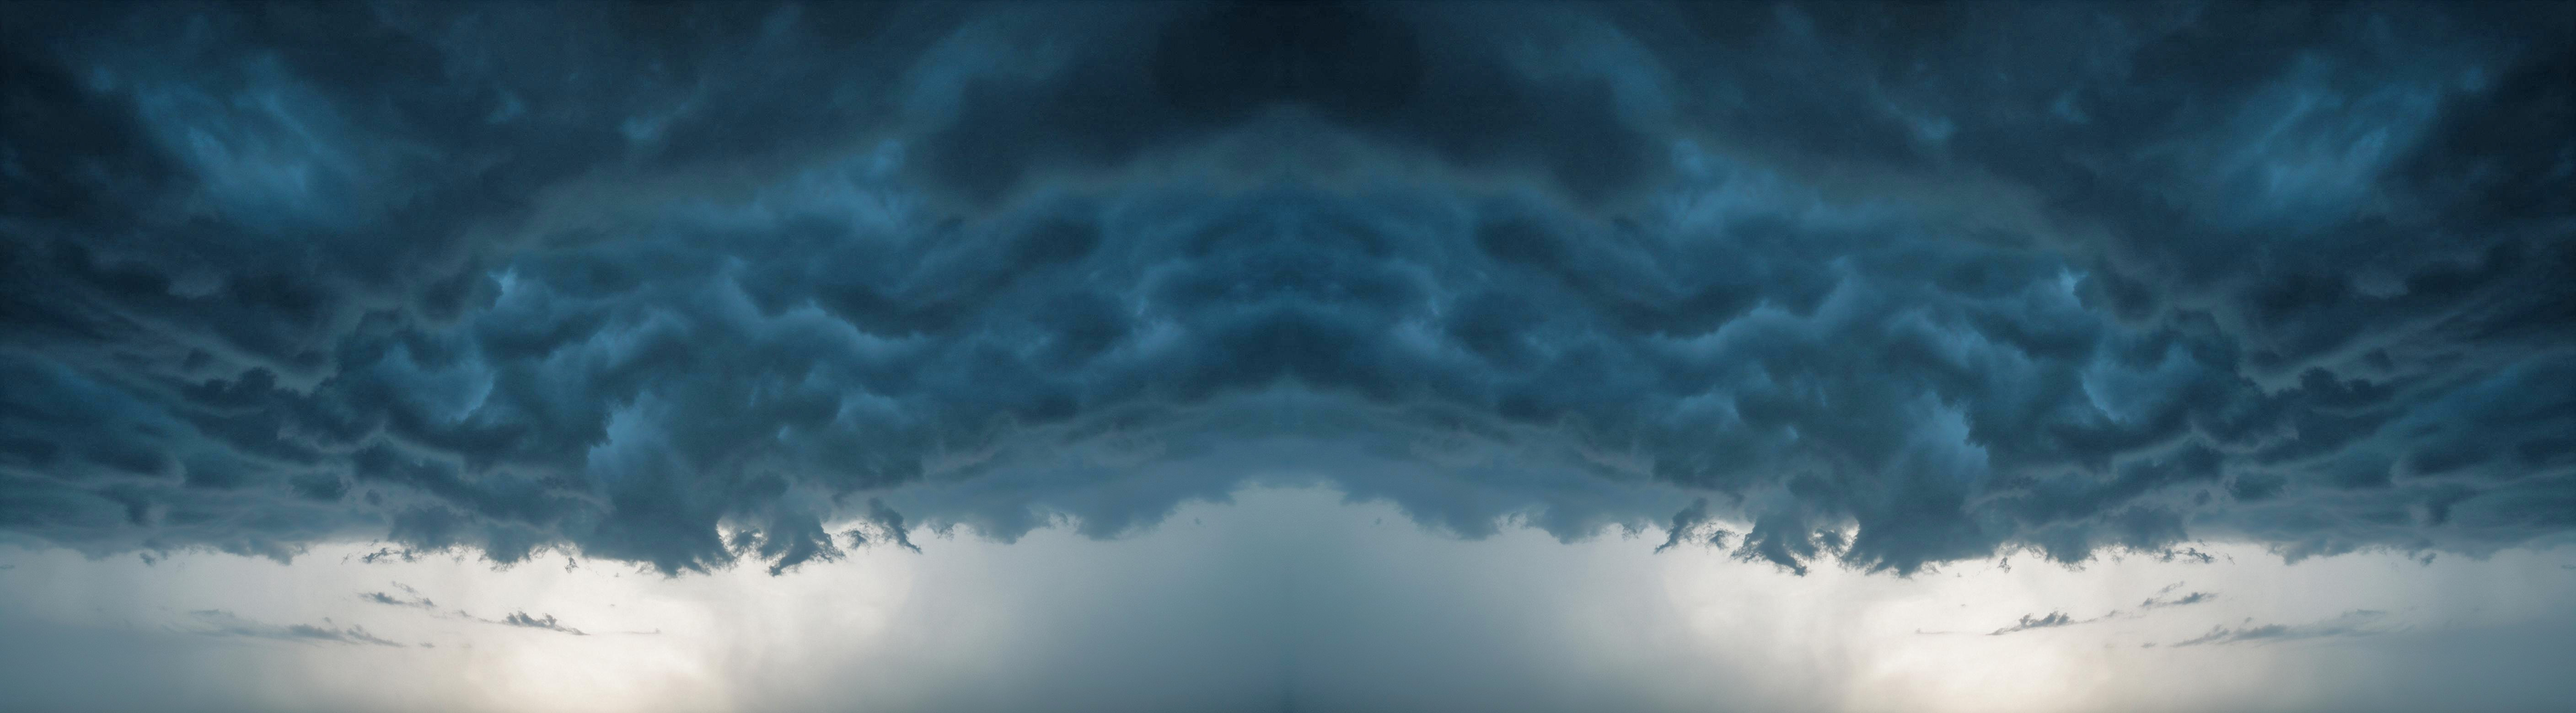
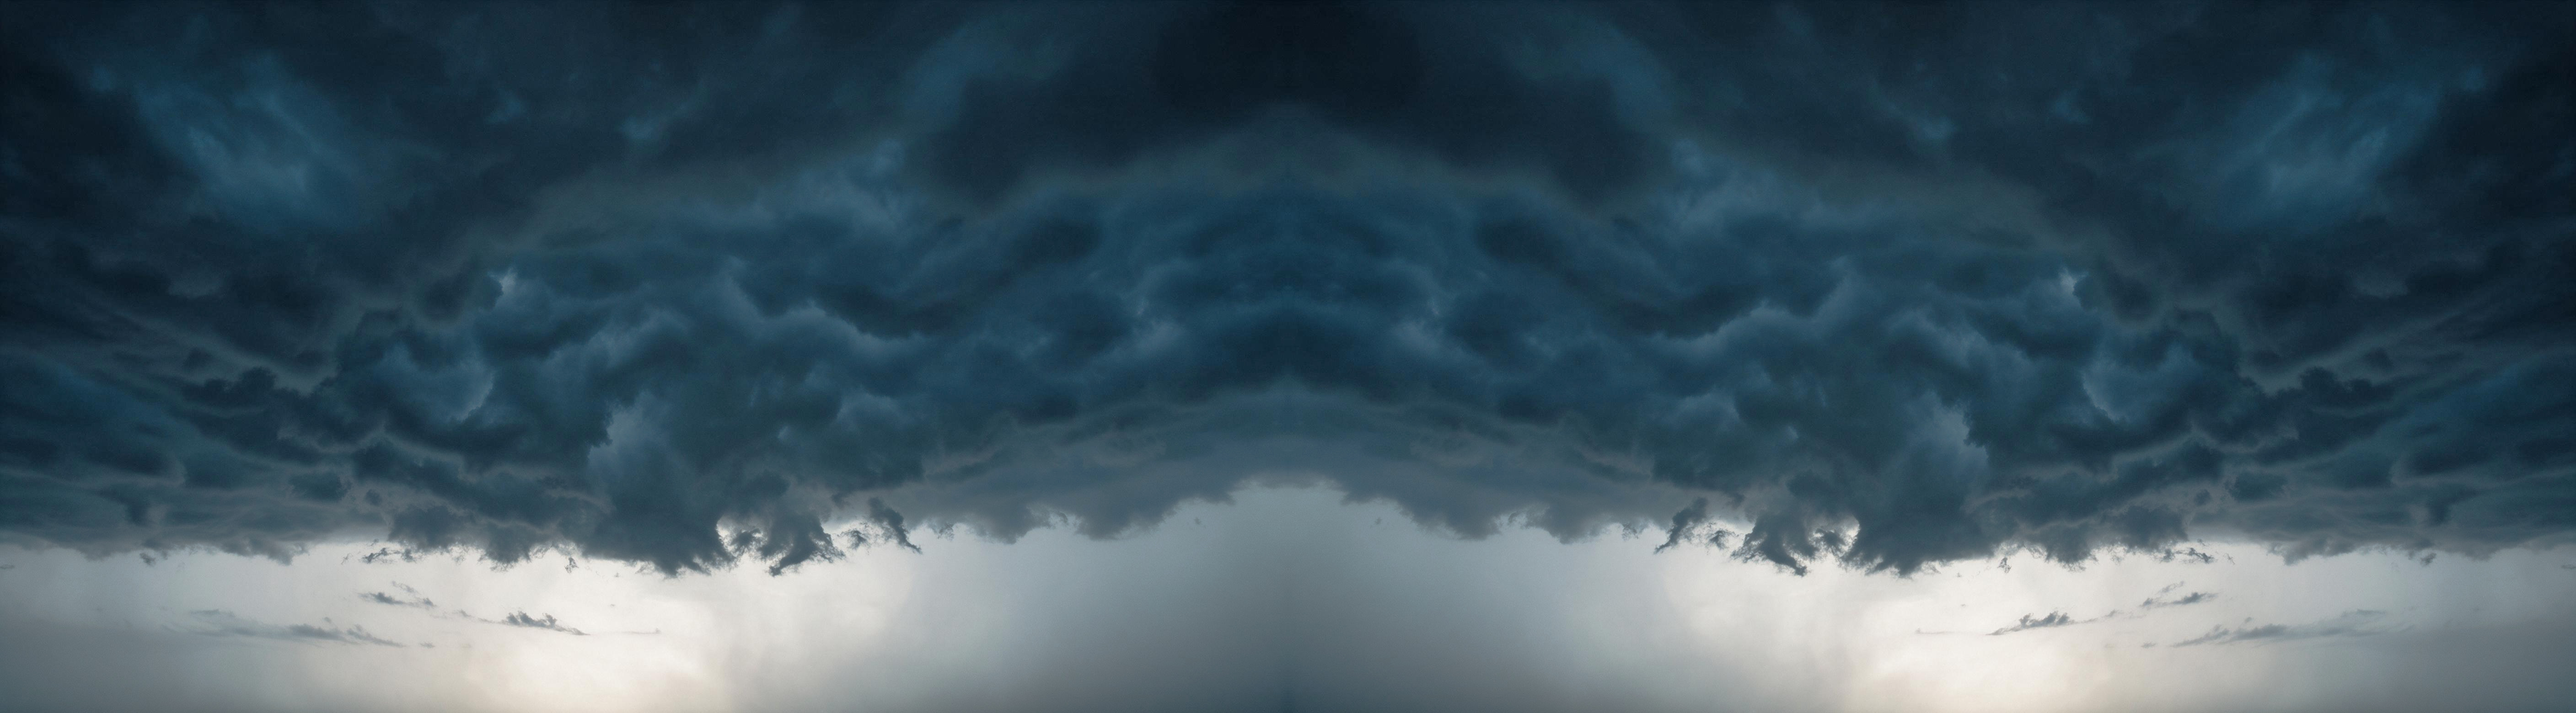
Rain: the sky as one shared function of direction for whatever mirrors it; band brightest toward the hidden sun; far rain as grey haze and curtains; darker tree row; thin fog

diff --git a/src/worlds/rain/sky.ts b/src/worlds/rain/sky.ts
@@ -3,98 +3,123 @@ import type { Assets } from '../../core/assets.ts'
 import { FullscreenPass } from '../../core/fullscreen.ts'
 import { glslCommon, shared } from '../../core/shading.ts'
 
-// The picture holds one sixth of the horizon twice, the second time turned over, so it closes round the dome. Its lower part is the pale band under the cloud, laid steeply; the cloud above keeps its own proportions.
-// No fog is laid over it: the rain between the lens and the cloud is in the paint's own grey and in the veils drawn in front.
+const RAD = Math.PI / 180
+// The bearing the lens looks along at the key: the middle of the painted sky sits there.
+const CENTER_DEG = -170.5
+// Where the band is brightest: the sun stands there, behind the cloud.
+const SUN_BEHIND_CLOUD_DEG = -163
+const FLASH_BEARING_DEG = -176
+const FLASH_ELEVATION_DEG = 9
+const FAR_RAIN: [number, number, number] = [0.3, 0.36, 0.4]
+const DRIFT_TURNS_PER_SECOND = 0.0002
+export const SKY_FILE = 'sky.jpg'
+
+const direction = (bearingDeg: number, elevationDeg: number): THREE.Vector3 =>
+  new THREE.Vector3(Math.sin(bearingDeg * RAD) * Math.cos(elevationDeg * RAD), Math.sin(elevationDeg * RAD), Math.cos(bearingDeg * RAD) * Math.cos(elevationDeg * RAD))
+
+// Everything `rainSkyGlsl` reads. Whatever mirrors the sky spreads these same objects into its own material; they are right once the stage has loaded and prepared the frame.
+export const rainSkyUniforms: Record<string, THREE.IUniform> = {
+  tRainSky: { value: null },
+  uRainSkyTexel: { value: 0.001 },
+  uRainSkyCenter: { value: CENTER_DEG * RAD },
+  uRainSkySunTurn: { value: (SUN_BEHIND_CLOUD_DEG - CENTER_DEG) * RAD },
+  uRainSkyGain: { value: 1 },
+  uRainSkyDrift: { value: 0 },
+  uRainSkyTone: { value: new THREE.Vector3().fromArray(FAR_RAIN) },
+  uRainFlash: { value: 0 },
+  uRainFlashAt: { value: direction(FLASH_BEARING_DEG, FLASH_ELEVATION_DEG) },
+}
+
+// The light of the sky in a world direction, for this world's own sky pass and for whatever mirrors it. It needs glslCommon.
+// The picture holds one sixth of the horizon twice, the second time turned over, so it closes round the dome. Its lower part is the pale band under the cloud, laid steeply; the cloud above is laid flatter, as cloud near the horizon lies.
+// No fog is laid over it: the rain between the lens and the cloud is in the grey added here and in the veils drawn in front.
+export const rainSkyGlsl = /* glsl */ `
+uniform sampler2D tRainSky;
+uniform float uRainSkyTexel;
+uniform float uRainSkyCenter;
+uniform float uRainSkySunTurn;
+uniform float uRainSkyGain;
+uniform float uRainSkyDrift;
+uniform vec3 uRainSkyTone;
+uniform float uRainFlash;
+uniform vec3 uRainFlashAt;
+
+const float RAIN_SKY_SPAN = 2.0943951;
+const float RAIN_SKY_BAND_ROWS = 0.235;
+const float RAIN_SKY_BAND_TOP = 0.095;
+const float RAIN_SKY_CLOUD_TALL = 0.32;
+
+vec3 rainSky(vec3 d, float lod) {
+  float up = max(asin(clamp(d.y, -1.0, 1.0)), 0.0);
+  float turn = uRainSkyCenter - atan(d.x, d.z);
+  float row = up < RAIN_SKY_BAND_TOP ? RAIN_SKY_BAND_ROWS * up / RAIN_SKY_BAND_TOP : RAIN_SKY_BAND_ROWS + (1.0 - RAIN_SKY_BAND_ROWS) * (up - RAIN_SKY_BAND_TOP) / RAIN_SKY_CLOUD_TALL;
+  vec3 sky = textureLod(tRainSky, vec2(fract(0.25 + turn / RAIN_SKY_SPAN + uRainSkyDrift), clamp(row, 0.004, 0.996)), lod).rgb;
+  float lum = dot(sky, vec3(0.3, 0.6, 0.1));
+  float cloud = 1.0 - smoothstep(0.12, 0.35, lum);
+  vec3 color = sky * mix(vec3(1.0), vec3(0.98, 1.06, 1.0), cloud) * uRainSkyGain;
+  // The band is where the sun stands behind thin cloud: the paint holds it back, the film lets it burn, most a little above the land and toward the sun.
+  float toSun = (turn + uRainSkySunTurn) / 0.45;
+  float open = (1.0 - cloud) * smoothstep(0.0, 0.05, up) * exp(-up / 0.09) * (0.3 + 0.7 * exp(-toSun * toSun));
+  color *= mix(vec3(1.0), vec3(2.1, 1.85, 1.5), open);
+  // Far rain hangs between the lens and the sky, lit grey by the band: an even haze that thickens toward the land, and leaning curtains under the cloud that drift.
+  float lean = turn - 0.21 * up;
+  float curtain = valueNoise(vec2(lean * 7.0 + uTime * 0.012, 2.0)) * 0.6 + valueNoise(vec2(lean * 31.0 + uTime * 0.03, up * 5.0 + 9.0)) * 0.4;
+  color = mix(color, uRainSkyTone, 0.3 * smoothstep(0.3, 0.8, curtain) * cloud * exp(-up / 0.22));
+  color = mix(color, uRainSkyTone, 0.55 * exp(-up / 0.06) * (1.0 - 0.6 * exp(-toSun * toSun)));
+  // Lightning deep in the cloud: its body lights up from inside round one place, brightest where it is thin.
+  float near = exp(-(1.0 - dot(d, uRainFlashAt)) / 0.035);
+  color += uRainFlash * vec3(0.55, 0.68, 1.0) * (0.25 + 1.6 * near) * cloud * (0.35 + 2.2 * lum) * smoothstep(0.03, 0.09, up);
+  return color;
+}
+`
+
 const fragment = /* glsl */ `${glslCommon}
+${rainSkyGlsl}
 uniform mat4 uCamWorld;
 uniform vec4 uProj;
-uniform sampler2D tSky;
-uniform float uTexelAngle;
 uniform float uPixelAngle;
-uniform float uCenter;
-uniform float uGain;
-uniform float uDrift;
-uniform float uFlash;
-uniform vec3 uFlashAt;
 uniform float uSamples;
 in vec2 vUv;
 layout(location = 0) out vec4 outColor;
-
-const float PI = 3.14159265358979;
-const float SPAN = 2.0 * PI / 3.0;
-const float BAND_ROWS = 0.235;
-const float BAND_TOP = 0.08;
-const float CLOUD_TALL = 0.46;
 
 void main() {
   vec2 ndc = vUv * 2.0 - 1.0;
   vec3 dv = normalize(vec3((ndc.x + uProj.z) * uProj.x, (ndc.y + uProj.w) * uProj.y, -1.0));
   vec3 d = normalize(mat3(uCamWorld) * dv);
   float coc = min(uCocScale / uFocusM, 2048.0);
-  float el = asin(clamp(d.y, -1.0, 1.0));
-  float up = max(el, 0.0);
-  float turn = uCenter - atan(d.x, d.z);
-  float row = up < BAND_TOP ? BAND_ROWS * up / BAND_TOP : BAND_ROWS + (1.0 - BAND_ROWS) * (up - BAND_TOP) / CLOUD_TALL;
-  vec2 uv = vec2(fract(0.25 + turn / SPAN + uDrift), clamp(row, 0.004, 0.996));
+  // One lens sample carries its share of the blur circle, so the samples close into it.
   float wide = max(1.0, 1.4 * coc / sqrt(uSamples));
-  float lod = max(0.0, log2(wide * uPixelAngle / uTexelAngle));
-  vec3 sky = textureLod(tSky, uv, lod).rgb;
-  float lum = dot(sky, vec3(0.3, 0.6, 0.1));
-  float cloud = 1.0 - smoothstep(0.12, 0.35, lum);
-  vec3 color = sky * uGain;
-  // The band is where the sun stands behind thin cloud: the paint holds it back, the film lets it burn.
-  float open = (1.0 - cloud) * exp(-up / 0.07);
-  color *= mix(vec3(1.0), vec3(1.3, 1.24, 1.12), open);
-
-  // Lightning deep in the cloud: its body lights up from inside round one place, brightest where it is thin.
-  float near = exp(-(1.0 - dot(d, uFlashAt)) / 0.035);
-  color += uFlash * vec3(0.55, 0.68, 1.0) * (0.25 + 1.6 * near) * cloud * (0.35 + 2.2 * lum) * smoothstep(0.03, 0.09, up);
-
+  vec3 color = rainSky(d, max(0.0, log2(wide * uPixelAngle / uRainSkyTexel)));
   float grey = dot(color, vec3(0.3, 0.6, 0.1));
   if (uDiag == 7) color = vec3(grey);
   if (uDiag == 4) { outColor = vec4(vec3(0.03), -1.0); return; }
   if (uDiag == 5) color = vec3(1.0e4);
   if (uDiag == 6) color = vec3(grey) * 0.5;
-  outColor = vec4(color, coc * mix(0.25, 1.0, 1.0 - smoothstep(0.05, 0.12, el)));
+  outColor = vec4(color, coc * mix(0.25, 1.0, 1.0 - smoothstep(0.05, 0.12, asin(clamp(d.y, -1.0, 1.0)))));
 }
 `
 
-export const SKY_FILE = 'sky.jpg'
-const DRIFT_TURNS_PER_SECOND = 0.0002
-
 export class RainSky {
-  private readonly pass: FullscreenPass
-
-  constructor(centerAzimuthDeg: number, flashAt: THREE.Vector3) {
-    this.pass = new FullscreenPass(fragment, {
-      ...shared,
-      uCamWorld: { value: new THREE.Matrix4() },
-      uProj: { value: new THREE.Vector4() },
-      tSky: { value: null },
-      uTexelAngle: { value: 0.001 },
-      uPixelAngle: { value: 0.001 },
-      uCenter: { value: (centerAzimuthDeg * Math.PI) / 180 },
-      uGain: { value: 1 },
-      uDrift: { value: 0 },
-      uFlash: { value: 0 },
-      uFlashAt: { value: flashAt },
-      uSamples: { value: 1 },
-    })
-  }
+  private readonly pass = new FullscreenPass(fragment, {
+    ...shared,
+    ...rainSkyUniforms,
+    uCamWorld: { value: new THREE.Matrix4() },
+    uProj: { value: new THREE.Vector4() },
+    uPixelAngle: { value: 0.001 },
+    uSamples: { value: 1 },
+  })
 
   async load(assets: Assets): Promise<void> {
     const map = await assets.texture('worlds/rain', SKY_FILE, { repeat: true })
-    const u = this.pass.uniforms
-    u.tSky.value = map
-    u.uTexelAngle.value = ((2 * Math.PI) / 3) / (map.userData.size as { width: number }).width
+    rainSkyUniforms.tRainSky.value = map
+    rainSkyUniforms.uRainSkyTexel.value = ((2 * Math.PI) / 3) / (map.userData.size as { width: number }).width
   }
 
   prepare(time: number, gain: number, flash: number, samples: number): void {
-    const u = this.pass.uniforms
-    u.uSamples.value = Math.max(1, samples)
-    u.uDrift.value = time * DRIFT_TURNS_PER_SECOND
-    u.uGain.value = gain
-    u.uFlash.value = flash
+    this.pass.uniforms.uSamples.value = Math.max(1, samples)
+    rainSkyUniforms.uRainSkyDrift.value = time * DRIFT_TURNS_PER_SECOND
+    rainSkyUniforms.uRainSkyGain.value = gain
+    rainSkyUniforms.uRainFlash.value = flash
   }
 
   render(renderer: THREE.WebGLRenderer, target: THREE.WebGLRenderTarget, camera: THREE.PerspectiveCamera, width: number): void {

diff --git a/src/worlds/rain/index.ts b/src/worlds/rain/index.ts
@@ -1,4 +1,3 @@
-import * as THREE from 'three'
 import { config } from '../../config.ts'
 import type { WorldSettings, WorldStageMaker } from '../../core/world.ts'
 import { makeStreaks } from '../../weather/rain/streaks.ts'
@@ -11,24 +10,20 @@ export const world: WorldSettings = {
   sun: { azimuthDeg: 180, elevationDeg: 62, color: [0.75, 0.82, 0.92], softnessDeg: 14, lean: 0.35, lift: 0.8 },
   sky: { zenith: [0.16, 0.19, 0.24], horizon: [0.7, 0.78, 0.86], bounce: [0.03, 0.035, 0.04], ambient: 1.25, glow: [0, 0, 0], glowPower: 8, disc: 0 },
   backdrop: { file: null, key: 'rain', sunAt: null, gain: 1.3, blur: 0.25 },
-  fog: { color: [0.36, 0.41, 0.46], sunTint: [0, 0, 0], density: 0.035, falloff: 0.25 },
+  fog: { color: [0.24, 0.3, 0.34], sunTint: [0, 0, 0], density: 0.004, falloff: 0.25 },
   grade: { exposure: 0.9, contrast: 1.3, white: 7, saturation: 0.82, gain: [0.95, 1, 1.06], lift: [0, 0.002, 0.006], bloom: 0.06, bloomKnee: 1.2, vignette: 0.34, grain: 0.014 },
   ground: { wet: 1, frost: 0, dew: 0 },
   wind: 0.3,
 }
 
-// The bearing the lens looks along at the key: the middle of the painted sky sits there.
-const SKY_CENTER_DEG = -170.5
-const SKY_GAIN = 1.3
+const SKY_GAIN = 1.24
 const DROP_LIGHT: [number, number, number] = [0.95, 1.0, 1.05]
 const DROP_SHADE: [number, number, number] = [0.25, 0.3, 0.34]
-const AIR_TONE: [number, number, number] = [0.55, 0.62, 0.66]
+const AIR_TONE: [number, number, number] = [0.3, 0.37, 0.4]
 const MIST: [number, number, number] = [0.5, 0.57, 0.62]
 
 // One stroke of lightning inside the cloud, as two swells of glow that are gone within ten frames.
 const FLASH_AT_S = 17.2
-const FLASH_BEARING_DEG = -163
-const FLASH_ELEVATION_DEG = 9
 
 export function flashAt(time: number): number {
   const t = time - FLASH_AT_S
@@ -37,9 +32,7 @@ export function flashAt(time: number): number {
 }
 
 export const stage: WorldStageMaker = () => {
-  const az = (FLASH_BEARING_DEG * Math.PI) / 180
-  const el = (FLASH_ELEVATION_DEG * Math.PI) / 180
-  const sky = new RainSky(SKY_CENTER_DEG, new THREE.Vector3(Math.sin(az) * Math.cos(el), Math.sin(el), Math.cos(az) * Math.cos(el)))
+  const sky = new RainSky()
   const far = makeFarLayers(golden.sun.azimuthDeg, AIR_TONE, MIST)
   const streaks = makeStreaks(DROP_LIGHT, DROP_SHADE)
   return {

diff --git a/src/worlds/rain/layers.ts b/src/worlds/rain/layers.ts
@@ -98,10 +98,10 @@ const TONES: [number, number, number][] = [
   [0.1, 0.14, 0.14],
   [0.05, 0.08, 0.07],
   [0.03, 0.05, 0.045],
-  [0.02, 0.035, 0.03],
-  [0.018, 0.03, 0.027],
-  [0.02, 0.03, 0.025],
-  [0.025, 0.03, 0.022],
+  [0.012, 0.026, 0.026],
+  [0.01, 0.022, 0.022],
+  [0.014, 0.022, 0.02],
+  [0.018, 0.024, 0.02],
 ]
 
 const VEILS = [
@@ -120,7 +120,7 @@ export interface FarLayers { meshes: THREE.Mesh[]; flash(amount: number): void }
 export function makeFarLayers(skylineAzimuthDeg: number, airTone: [number, number, number], mist: [number, number, number]): FarLayers {
   const meshes: THREE.Mesh[] = []
   const flash = { value: 0 }
-  const airUniforms = { uAirTone: { value: new THREE.Vector3().fromArray(airTone) }, uAir: { value: 0.0015 }, uFlash: flash }
+  const airUniforms = { uAirTone: { value: new THREE.Vector3().fromArray(airTone) }, uAir: { value: 0.0005 }, uFlash: flash }
   const add = (geometry: THREE.BufferGeometry, material: THREE.Material, order: number): void => {
     const mesh = new THREE.Mesh(geometry, material)
     mesh.frustumCulled = false
